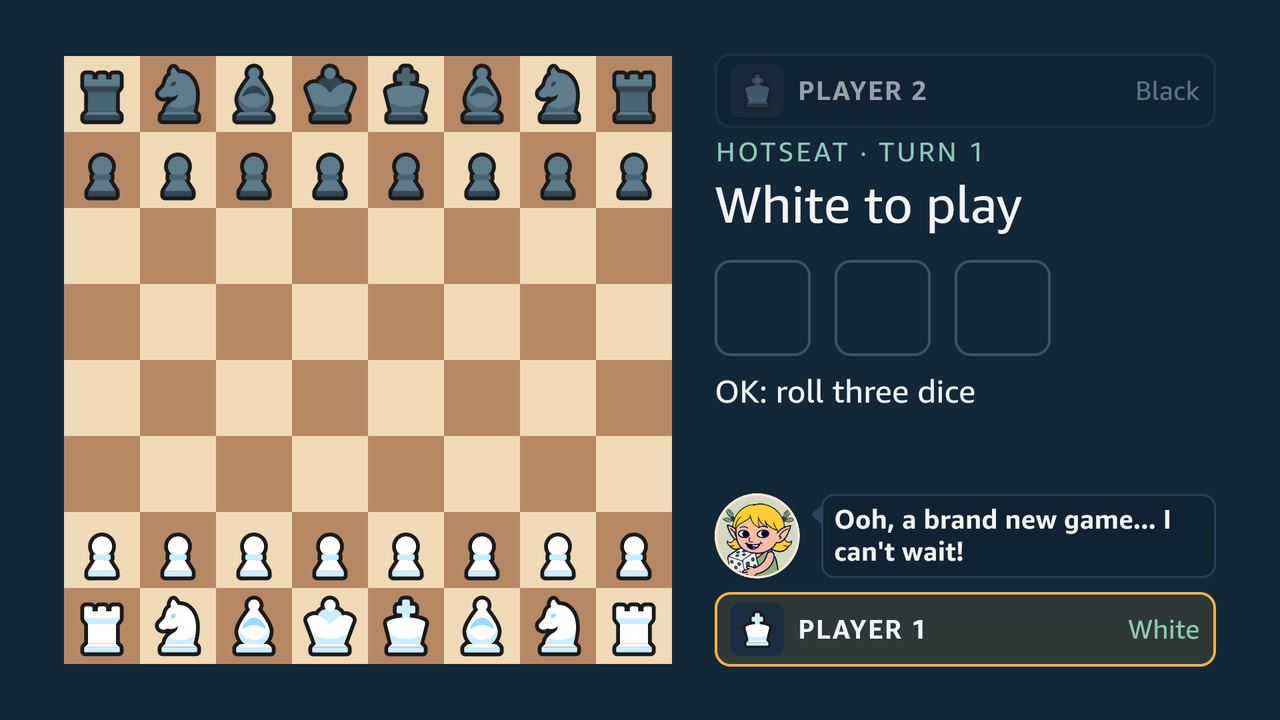
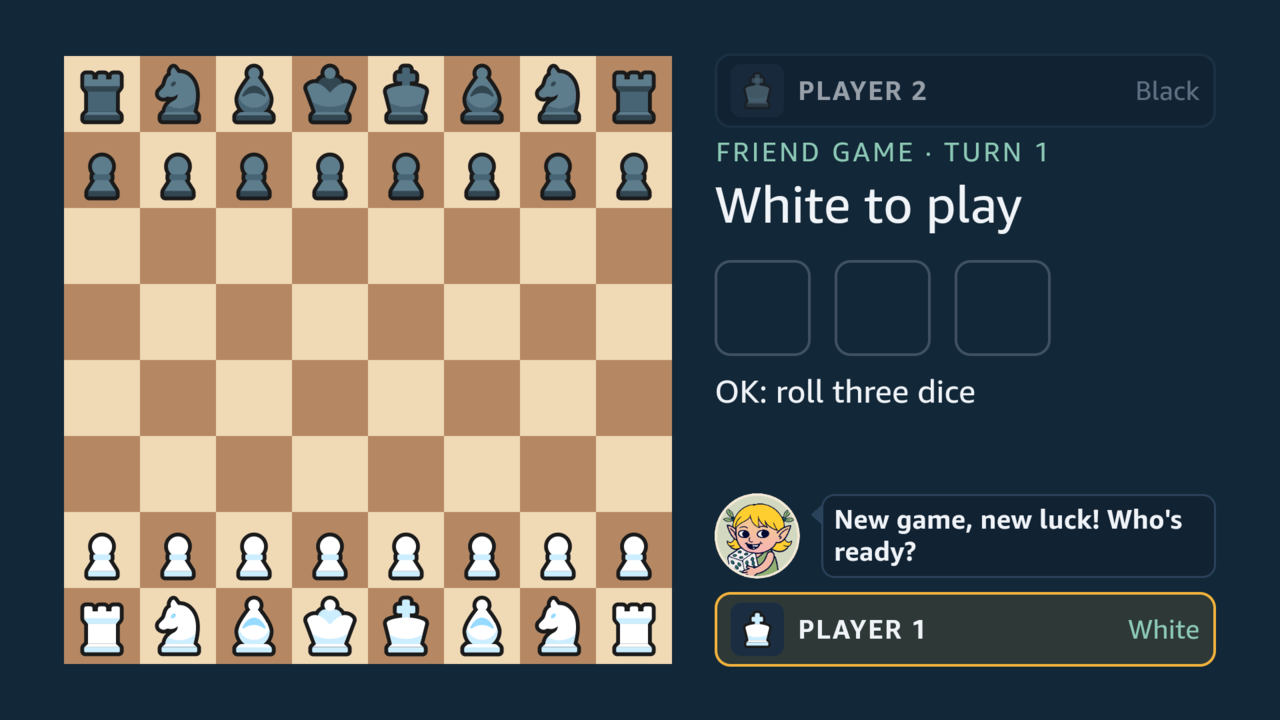
docs: retake the site screenshots that show the old labels (#351)
The friend game's new name (#348) left six site screenshots reading
"HOTSEAT · TURN n" or "New hotseat game": hotseat, host, resume,
focus-pressed, partial-turn and play-as. Five others no longer matched
what main draws either: the game menu gained Main menu (#343), the rules
guide's heading reads RULES REFERENCE, a picked-up piece's hint is now
"OK: pick up · Back: menu" and the end of a turn names who plays next
(#232, #240), and a resignation reads "Grabby wins · You resigned"
(#235), as rematch's alt text already said. All eleven are retaken.

They were captured on the Vega Virtual Device from main 125b4f6 (1.0.0,
portraits 1.4.0) with `vvd`, and scaled to 1280 x 720 as site/README.md
says. As before, a test build that only scripted the first rolls set up
the knight with a capture, the turn with a die left over and the roll
with nothing to play; every other screen is the clean build.

The features page no longer says the screenshots come from beta 8. Two
alt texts follow the pictures: "Rules reference" in the focus picture,
and "a game against a friend" for the knight picture on the remote page.
demo, first-launch, opponents and tutorial still match main and are kept.

Refs #344

Changed region(s): [[0.6562, 0.7028, 0.9375, 0.7944], [0.5625, 0.1833, 0.8125, 0.2444], [0.5625, 0.7639, 0.5938, 0.7944]]

diff --git a/site/src/content/docs/project/features.md b/site/src/content/docs/project/features.md
@@ -5,7 +5,7 @@ sidebar:
   order: 2
 ---
 
-Every screenshot here comes from the Vega Virtual Device, captured with scripted presses of the remote on beta 8 with the opponents' portraits. A test build set the first rolls, so that a roll with nothing to play and a knight with a capture came up when they were needed; apart from the dice, each screen is the app as it ships. Each feature was also played there, and the app's automated tests cover it; where a check is still open, the section says so. The game has also run on a Fire TV Stick 4K Select since 6 October 2026, but no screenshot here was taken on it; [Performance](/technology/performance/) has what was measured there.
+Every screenshot here comes from the Vega Virtual Device, from a build with the opponents' portraits, captured with scripted presses of the remote. Each is taken again when its screen changes: most were retaken on 10 October 2026, from version 1.0.0, once the friend game had its name. A test build set the first rolls, so that a roll with nothing to play and a knight with a capture came up when they were needed; apart from the dice, each screen is the app as it ships. Each feature was also played there, and the app's automated tests cover it; where a check is still open, the section says so. The game has also run on a Fire TV Stick 4K Select since 6 October 2026, but no screenshot here was taken on it; [Performance](/technology/performance/) has what was measured there.
 
 ## Play a friend on one remote
 

diff --git a/site/src/content/docs/design/sofa.md b/site/src/content/docs/design/sofa.md
@@ -43,7 +43,7 @@ The app lays out a 960 x 540 dp screen, which is how a 1920 x 1080 television re
 
 ## Focus
 
-![The home menu with OK held down on Rules: the focused item is framed, filled more strongly while the button is held, and slightly smaller](../../../assets/screenshots/focus-pressed.png)
+![The home menu with OK held down on Rules reference: the focused item is framed, filled more strongly while the button is held, and slightly smaller](../../../assets/screenshots/focus-pressed.png)
 
 - **Focus.** A focused menu item or rules topic is framed and filled, not only coloured.
 - **Press.** While OK is held down, the item fills more strongly and shrinks a little, so the press shows before its choice takes effect.
